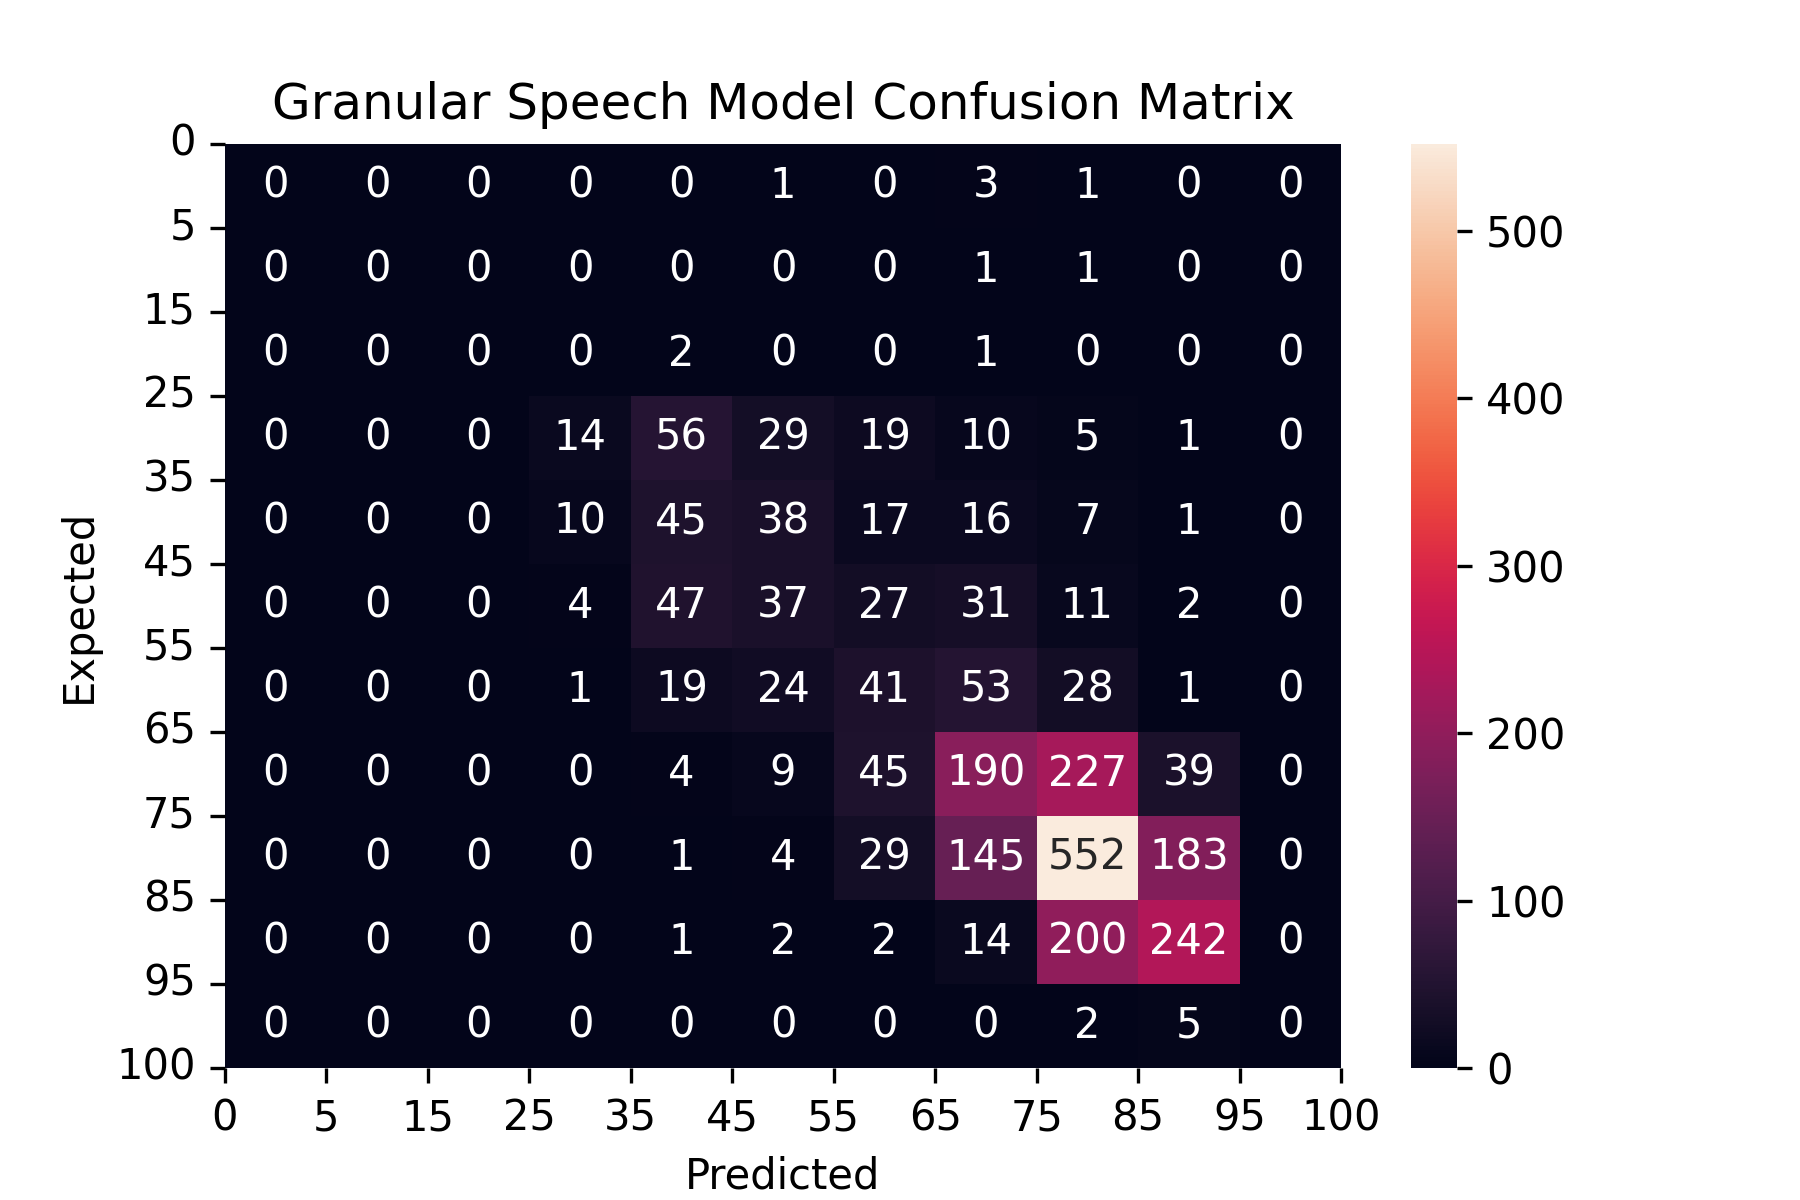
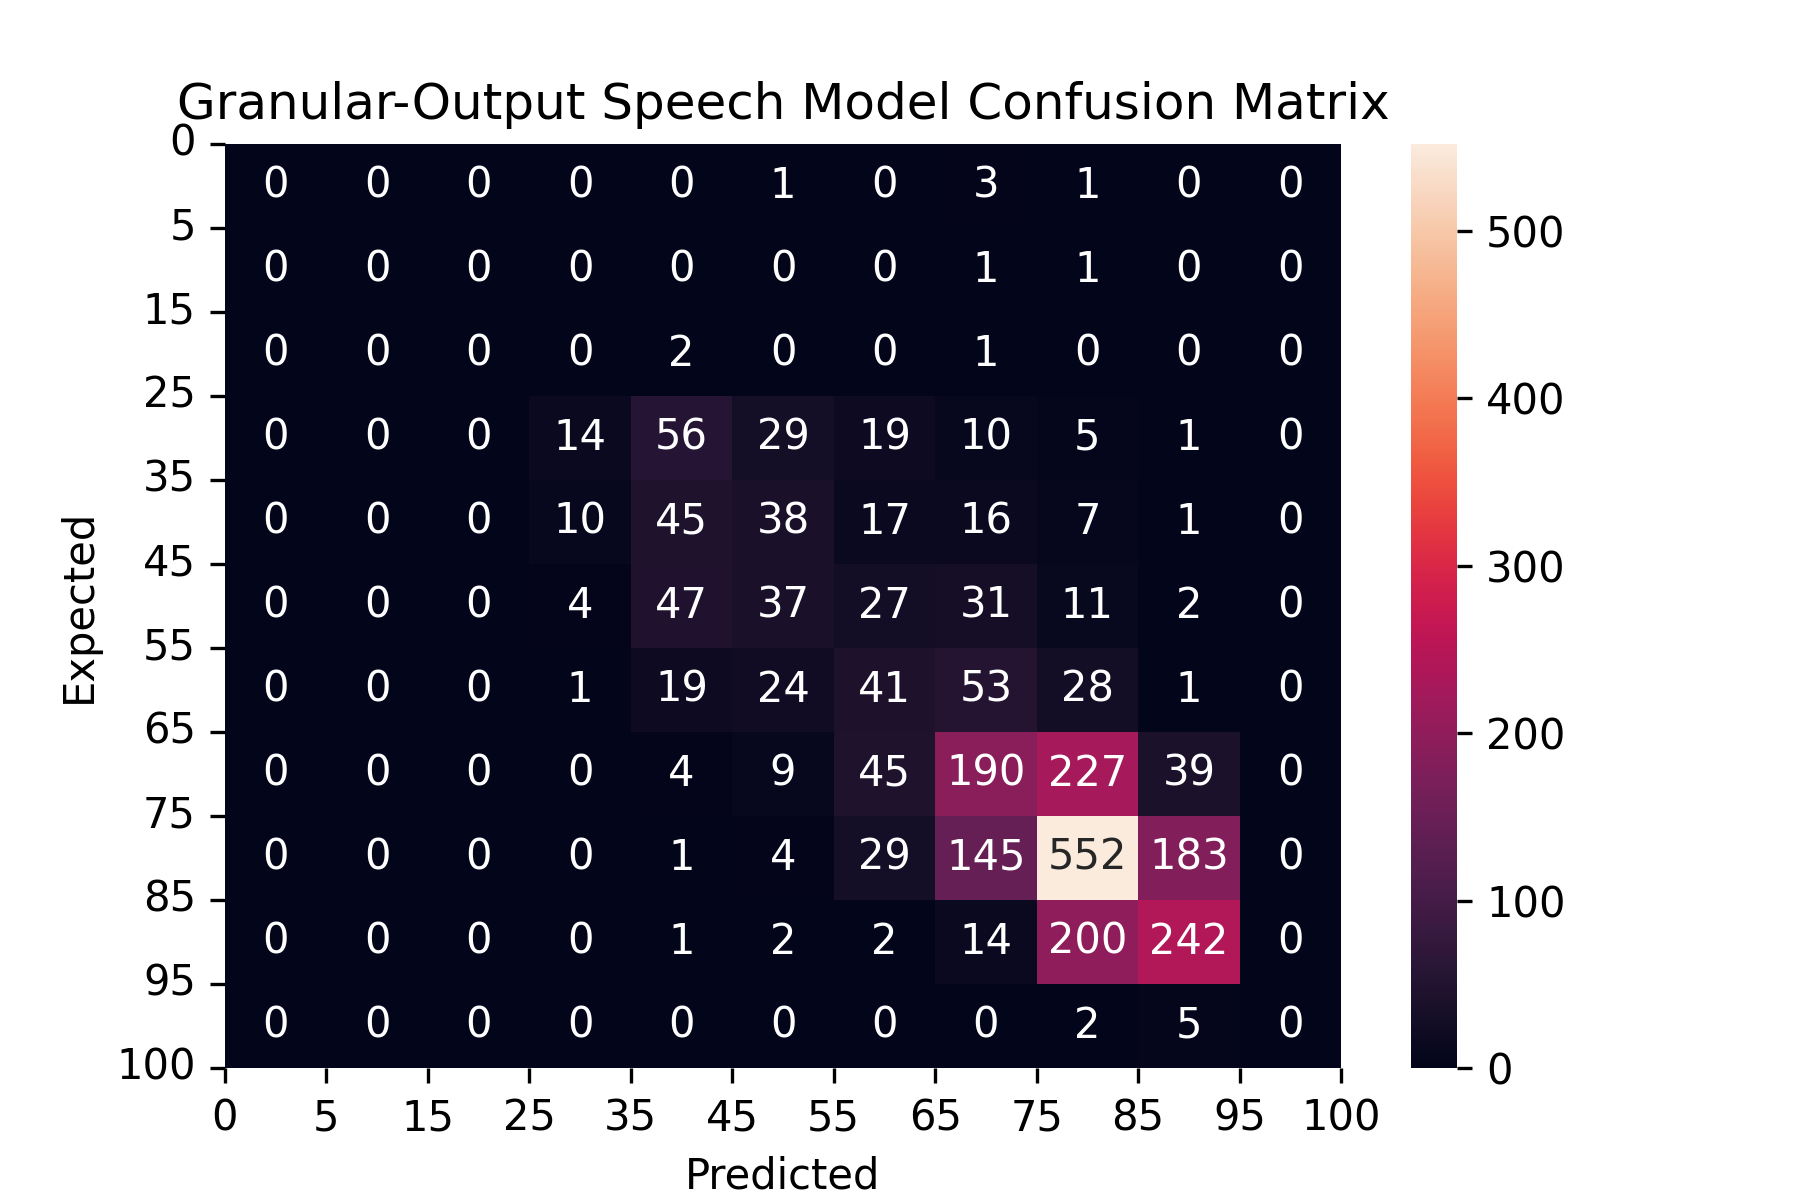
write losses

Changed region(s): [[0.0933, 0.0617, 0.7778, 0.1233]]

diff --git a/src/batch_speech_eval.py b/src/batch_speech_eval.py
@@ -4,11 +4,11 @@ from sklearn.metrics import mean_squared_error, r2_score
 import numpy as np
 from sklearn.metrics import mean_squared_error, r2_score
 import sys
-from evalutation_utils import get_confusion_matrix, get_performance, save_heatmap
+from evalutation_utils import get_confusion_matrix, get_performance, save_heatmap, save_histogram
 
 if __name__ == "__main__":
     parser = argparse.ArgumentParser()
-    parser.add_argument('--path', type=str, required=False, default="/home/ubuntu/nlp-toefl-autograder/tuning/speech/baseline")
+    parser.add_argument('--path', type=str, required=False, default="/home/ubuntu/nlp-toefl-autograder/tuning/speech/simpler")
     parser.add_argument('--n_buckets', type=int, required=False, default=12)
     parser.add_argument('--train', action='store_true')
 
@@ -44,8 +44,10 @@ if __name__ == "__main__":
         conf_mat = get_confusion_matrix(nlp_preds['pred_total'], nlp_preds['actual_total'], args.n_buckets, custom_range = np.arange(-5, 106, 10))
         # labs=[f"[{max(n-10, 0)},{min(n, 100)}{')' if n<100 else ']'}" for n in np.arange(5, 106, 10)]
         save_heatmap(conf_mat, path + "/confusion_matrix.png", labs = [0] + [min(x, 100) for x in np.arange(5, 106, 10)],
-                     title = "Sentence-Level Speech Model Confusion Matrix")
+                     title = "Granular-Output Speech Model Confusion Matrix")
         get_performance(conf_mat, args.n_buckets)
         
         r = np.corrcoef(nlp_preds['pred_total'], nlp_preds['actual_total'])[0, 1]
         print(f"Correlation (r) between the two predictions: {np.round(r, 4)}")
+        save_histogram(nlp_preds['pred_total'], nlp_preds['actual_total'], path + "/histogram.png", 
+                       title="Histogram of Granular-Output Speech Model")

diff --git a/src/evalutation_utils.py b/src/evalutation_utils.py
@@ -57,11 +57,11 @@ def save_heatmap(conf_mat, image_filepath, labs=None, title="Confusion Matrix"):
     plt.title(title)
     plt.savefig(image_filepath, dpi=300)
 
-def save_histogram(preds, overall, image_filepath):
+def save_histogram(preds, overall, image_filepath, title=""):
     plt.figure(figsize = (6,4))
     sn.set_palette("dark")
     differences = preds - overall
     sn.histplot(differences, bins=np.arange(-50, 51, 3))
     plt.xlabel("Predicted - Expected")
-    plt.title("Histogram of Differences")
+    plt.title(title)
     plt.savefig(image_filepath, dpi=300)
